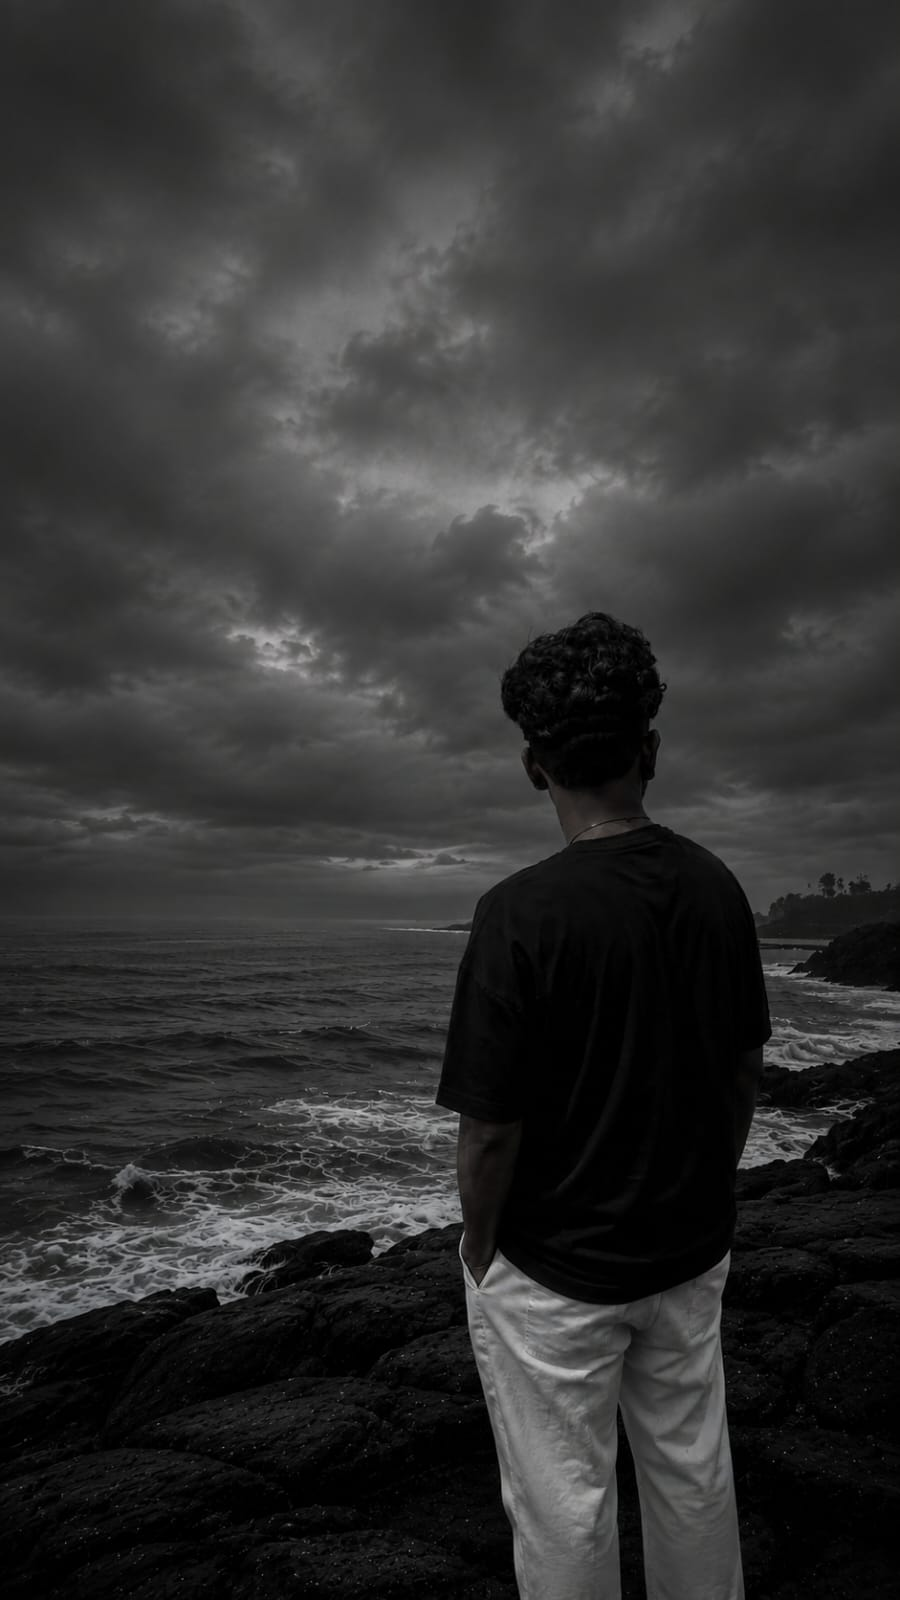
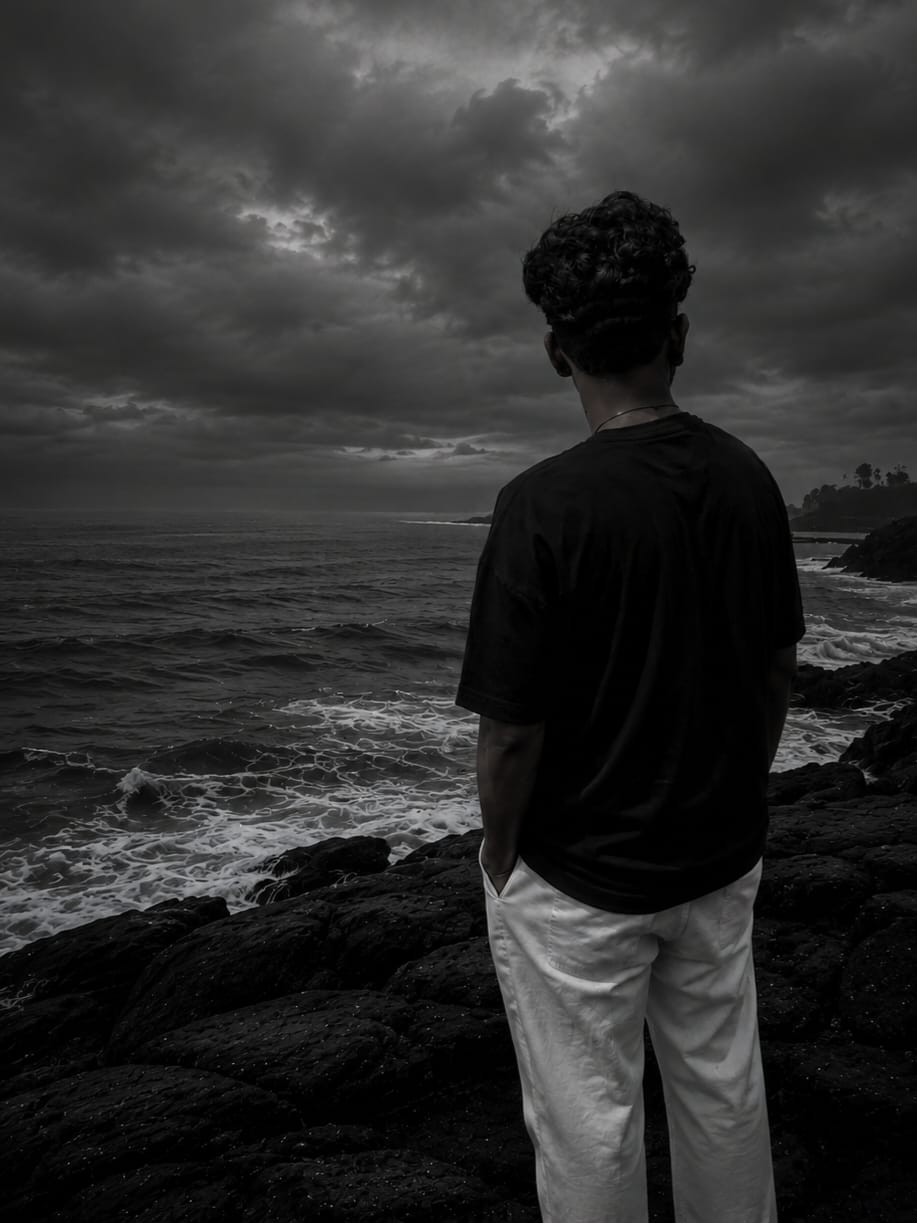
lc

diff --git a/style.css b/style.css
@@ -493,9 +493,8 @@ a {
 }
 
 .photography-grid {
-    display: grid;
-    grid-template-columns: repeat(3, 1fr);
-    gap: 1.5rem;
+    column-count: 3;
+    column-gap: 1.5rem;
 }
 
 .photo-placeholder {
@@ -512,12 +511,13 @@ a {
 
 .photo-item {
     width: 100%;
-    aspect-ratio: 4/3;
-    object-fit: cover;
+    height: auto;
     border-radius: 5px;
     transition: transform 0.3s ease, border-color 0.3s ease;
     border: 1px solid rgba(255,255,255,0.1);
     display: block;
+    margin-bottom: 1.5rem;
+    break-inside: avoid;
 }
 
 .poster-item {
@@ -567,12 +567,12 @@ a {
         gap: 20px;
     }
     .photography-grid {
-        grid-template-columns: 1fr 1fr;
+        column-count: 2;
     }
 }
 
 @media (max-width: 600px) {
     .photography-grid {
-        grid-template-columns: 1fr;
+        column-count: 1;
     }
 }
